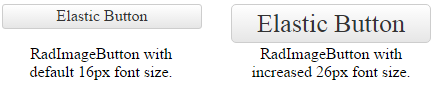
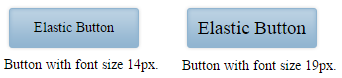
Updated Mobile Support articles with new images for Fluid and Elastic RadImageButton.

diff --git a/controls/imagebutton/mobile-support/fluid-design.md b/controls/imagebutton/mobile-support/fluid-design.md
@@ -10,7 +10,7 @@ position: 2
 
 # Fluid Design
 
-This article explains the **fluid design capabilities RadImageButton offers**. The **Example 1** below shows how you can set button size in percent so it can resize with its parent element.
+This article explains the **fluid design capabilities RadImageButton offers**. **Example 1** below shows how you can set button size in percent so it can resize with its parent element. If you need the image to also respect the button size, you need to set the `Sizing` property of the `Image` tag to `Stretch`.
 
 Generally, responsive design means that the page and its content are able to adapt to different screen resolutions without deteriorating the user experience. This often includes [changing the font size]({%slug imagebutton/mobile-support/elastic-design%}) and having dimensions set in percent.
 
@@ -22,17 +22,20 @@ Generally, responsive design means that the page and its content are able to ada
 
 ````ASP.NET
 <style>
-	html, body, form {
-		height:100%;
-	}
+    html, body, form {
+        height: 100%;
+    }
 </style>
 
-<div style="width:40%; height:30%;">
-	<telerik:RadImageButton runat="server" ID="ImageButton" 
-		Text="Fluid Design" Skin="Default" Width="100%" Height="25%">
-	</telerik:RadImageButton>
+<div style="width: 30%; height: 30%;">
+    <telerik:RadImageButton runat="server" ID="ImageButton"
+        Skin="Default" Width="100%" Height="100%">
+        <Image Url="images/iMac_normal.png" Sizing="Stretch" />
+    </telerik:RadImageButton>
 </div>
 ````
+
+You can download the image used in this example from here—[iMac_normal.png](images/iMac_normal.png).
 
 ## See Also
 

diff --git a/controls/imagebutton/mobile-support/elastic-design.md b/controls/imagebutton/mobile-support/elastic-design.md
@@ -22,17 +22,19 @@ Generally, responsive design means that the page and its content are able to ada
 
 ````CSS
 <style type="text/css">
-	button.RadButton {
-		font-size: 26px;
-	}
+    button.RadButton {
+        font-size: 19px;
+    }
 </style>
 ````
 
 ````ASP.NET
-<telerik:RadImageButton runat="server" ID="ImageButton"
-	Text="Elastic Button" Skin="Default" Width="200px">
+<telerik:RadImageButton runat="server" ID="RadImageButton2" Text="Elastic Button" Width="140px" Height="50px">
+    <Image Url="images/blue_button_bg.png" />
 </telerik:RadImageButton>
 ````
+
+You can download the image used in this example from here—[blue_button_bg.png](images/blue_button_bg.png).
 
 ## See Also
 
